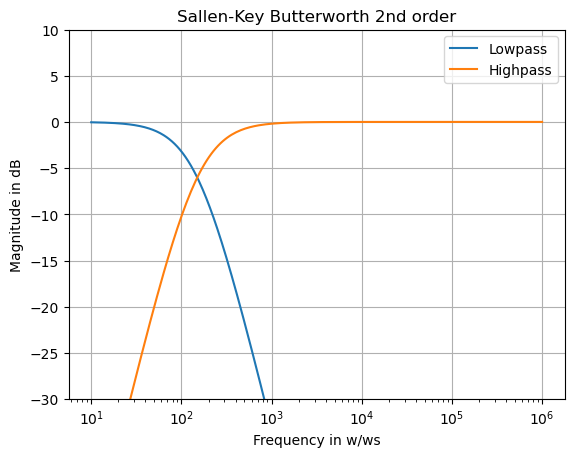
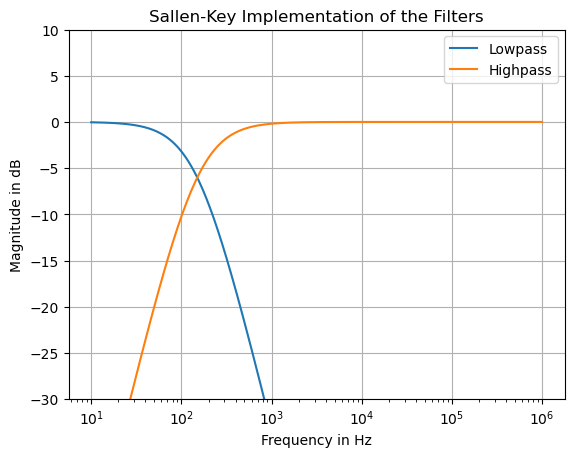
Updatet the Readme. Correct a few mistakes.

Changed region(s): [[0.2666, 0.0, 0.8589, 0.0613], [0.4443, 0.9497, 0.6812, 0.9803]]

diff --git a/004_Real_Circuits/README.md b/004_Real_Circuits/README.md
@@ -24,9 +24,17 @@ Schematic of the basic OTA desgin from Prof. Pretl.
 
 </div>
 
-The schematic in the figure above show the circuit of the basic OTA from Prof. Pretl. This designs is provided in his analog circuit design repository.[Analog-circuit-design Repository](https://github.com/iic-jku/analog-circuit-design)\
-This OTA is a very simple design. Besides the MOSFETs M7 to M13, which are needed for the enable circuit of this OTA design, the core OTA design consist only out of six MOSFETs. This is the bare minmum amount of MOSFETs needed for a functional OTA design.\
-The MOSFET M1 to M6 together form the core OTA circuit. Each MOSFET pair has a particular function in the OTA.
+The schematic in the figure above show the circuit of the basic OTA from Prof. Pretl. This designs is provided in his analog circuit design repository.[Analog-circuit-design Repository](https://github.com/iic-jku/analog-circuit-design). This OTA is a very simple design. Besides the MOSFETs M7 to M13, which are needed for the enable circuit of this OTA design, the core OTA design consist only out of six MOSFETs.
+
+Parameters:
+* $V_\mathrm{dd}=1.45\,\mathrm{V}<1.5\,\mathrm{V}<1.55\,\mathrm{V}$
+* $V_\mathrm{ss}=0\,\mathrm{V}$
+* $V_\mathrm{in,n/in,p}=0.7\,\mathrm{V}<0.8\,\mathrm{V}<0.9\,\mathrm{V}$
+* $I_\mathrm{bias}=20\,\mathrm{\mu A}$
+
+
+
+Functionality of the MOSFETs:
 * The PMOS M3 and M4 form a current Mirror. These two MOSFETs are used as a form of drain resistor for the upcoming differential input pair.
 * The NMOS M1 and M2 form the differential input pair of the OTA. These two MOSFETs form the differential signal, based on the voltage differenz between the input voltages $V_\mathrm{in,n}$ and $V_\mathrm{in,p}$ at the input terminals of the OTA.
 * The two NMOS M6 and M5 create together the bias network for the differential input pair. The bias current is needed to bias the differential input pair M1 and M2 and to create the differential signal. This OTA needs a bias current of $I_\mathrm{bias}=20\,\mathrm{\mu A}$.
@@ -61,12 +69,13 @@ The circuit with the OTA x1 is the Sallen-Key lowpass circuit. The parameters of
 * $C_\mathrm{LP}=22.221\,\mathrm{nF}$
 
 The OTA x2 is used for the Sallen-key highpass circuit. The following values for the resistors and capacitors are used.
-* $R_\mathrm{HP}=50\,\mathrm{k\Omega}$
-* $C_\mathrm{HP}=22.221\,\mathrm{nF}$
+* $R_\mathrm{HP}=22.221\,\mathrm{k\Omega}$
+* $C_\mathrm{HP}=50\,\mathrm{nF}$
 
-For the inverter circuit and the adder circuit, ideal opamps are used. This is due to the fact, that the input signal at the inputs of the OTA has to be between $0.7\,\mathrm{V}$ and $0.9\,\mathrm{V}$. This cant be achieved with the output signals of the filters. This is also the reason for the voltage source $V_\mathrm{off}$ in the highpass circuit. The two capacitors in series to inverted input of the OTA block all DC voltages. Therefore the incoming AC voltage oscillates around ground potential. The voltage source gives an offset of $0.8\,\mathrm{V}$, so that the signal is inside the wanted voltage range. The resistors used in the inverter and adder circuit have a value of $R_\mathrm{IN}=1\,\mathrm{M\Omega}$.
+For the inverter and adder circuit:
+* $R_\mathrm{IN}=1\,\mathrm{M\Omega}$
 
-
+For the inverter and the adder circuit, ideal opamps are used. This is due to the fact, that they don't have any effect on the performance of the lowpass and highpass. Only these two OTAs are relevant. The reason for the voltage source at the inverting input of x2 is, that the input voltage has to be between $0.7\,\mathrm{V}$ and $0.9\,\mathrm{V}$. This is achieved by DC offset of $0.8\,\mathrm{V}$ with the input signal, but the capcitors $C_\mathrm{3}$ and $C_\mathrm{4}$ block all incoming DC voltages. So the voltage source gives the input signal the necessary offset voltage $0.8\,\mathrm{V}$.
 
 
 <div align="center">
@@ -93,8 +102,16 @@ Schematic of the modified OTA. The enable circuit got removed.
 
 </div>
 
-The OTA design in the schematic above is used in the second LRC design. This OTA design is a modified version of the basic OTA design from Prof. Pretl. The enable circuit is removed for the sake of simplicity.\
-Only the MOSFET which are necessary for the OTA to function properly are left in this design. The functionality of the MOSFETs stays the same.
+The OTA design in the schematic above is used in the second LRC design. This OTA design is a modified version of the basic OTA design from Prof. Pretl. The enable circuit is removed for the sake of simplicity.
+
+Parameters:
+* $V_\mathrm{dd}=1.45\,\mathrm{V}<1.5\,\mathrm{V}<1.55\,\mathrm{V}$
+* $V_\mathrm{ss}=0\,\mathrm{V}$
+* $V_\mathrm{in,n/in,p}=0.7\,\mathrm{V}<0.8\,\mathrm{V}<0.9\,\mathrm{V}$
+* $I_\mathrm{bias}=20\,\mathrm{\mu A}$
+
+
+This design contains only the MOSFET which are necessary for the OTA to function properly. The functionality of the MOSFETs stays the same.
 
 * M3/M4 are PMOS, which create the upper current mirror.
 * M1/M2 are NMOS and create the differential input pair.
@@ -128,11 +145,13 @@ The circuit used for the LRC is the same as before. The OTA x1 is used for the S
 * $C_\mathrm{LP}=22.221\,\mathrm{nF}$
 
 The OTA x2 is used for the Sallen-key highpass circuit. The following values for the resistors and capacitors are used.
-* $R_\mathrm{HP}=50\,\mathrm{k\Omega}$
-* $C_\mathrm{HP}=22.221\,\mathrm{nF}$
+* $R_\mathrm{HP}=22.221\,\mathrm{k\Omega}$
+* $C_\mathrm{HP}=50\,\mathrm{nF}$
 
-Also the inverter circuit and the addition circuit stay the same. The values of the resistors used in this circuit stays at $R_\mathrm{IN}=1\,\mathrm{M\Omega}$.\
-The only difference to the circuit before is, that there is no more enable pin at the OTA symbol. This pin is missing, because there is no more enable circuit inside the OTA.
+For the inverter and adder circuit:
+* $R_\mathrm{IN}=1\,\mathrm{M\Omega}$
+
+Also the inverter circuit and the addition circuit stay the same. Only difference is the removed enable pin for the OTAs.
 
 <div align="center">
 
@@ -141,7 +160,7 @@ The only difference to the circuit before is, that there is no more enable pin a
 Schematic of the Linkwitz-Riley crossover circuit which uses the modified OTA design. 
 
 </div>
-The magnitude response of this LRC is basicly the same as before. This is due to the same core design of OTAs. No improvments are achieved by the new design of the OTA.
+The magnitude response of this LRC is basicly the same as before. This is due to the same core design of OTAs. No improvments are achieved with the new design of the OTA.
 
 ## Linkwitz-Riley crossover with an added amplifier at its output
 This Version of the linkwitz-riley-crossover is based on the final OTA design.
@@ -153,15 +172,27 @@ This Version of the linkwitz-riley-crossover is based on the final OTA design.
 Schematic of the OTA with a second common source amplifier at the output of the differenital input pair.
 
 </div>
-The figure above shows the final design of the OTA. The desgn is similiar to the OTA design with the enable circuit removed. The core design of the OTA stays the same.
+
+Parameters:
+* $V_\mathrm{dd}=1.45\,\mathrm{V}<1.5\,\mathrm{V}<1.55\,\mathrm{V}$
+* $V_\mathrm{ss}=0\,\mathrm{V}$
+* $V_\mathrm{in,n/in,p}=0.7\,\mathrm{V}<0.8\,\mathrm{V}<0.9\,\mathrm{V}$
+* $I_\mathrm{bias}=30\,\mathrm{\mu A}$
+
+
+The figure above shows the final design of the OTA. The desgn is similiar to the OTA design with the enable circuit removed. The core design of the OTA stays the same. New to the design are the MOSFETs M7 and M8 and the resistor $R_\mathrm{1}$ and the capacitor $C_\mathrm{2}$.
 
 * M3/M4 are PMOS, which create the upper current mirror.
 * M1/M2 are NMOS and create the differential input pair.
 * M5/M6 are NMOS and create the bias network for the differential input pair.
+* M7 is a PMOS and is used to amplify the signal coming from the differential input pair.
+* M8 is a NMOS and used to bias the PMOS M7
+* The resistor $R_\mathrm{1}$ and the capacitor $C_\mathrm{2}$ are used for the Miller compensation.
 
-New in comparison to the old design are the MOSFETs M7 and M8 and furthermore the resistor R1 and the capacitor C2.\
-The MOSFETs together create the second output stage. The PMOS M7 is the amplifier and the NMOS M8 is used to bias the amplifier. The amplifier stage needs only half of the bias current as needed for the differential pair. This due to fact, that only one, instead of two, common source amplifier is used in the second stage. That is also the reason for the fact, that only $I_\mathrm{bias,output}=\frac{I_\mathrm{bias,diff}}{2}=10\,\mathrm{\mu A}$ is needed to bias the output amplifier stage. The overall bias current needed for this OTA design therefore increase to $I_\mathrm{bias}=30\,\mathrm{\mu A}$.\
+
+The second amplifier needs only half of the bias current as needed for the differential pair. This due to fact that only one, instead of two, common source amplifier is used in the second stage. Therefore only $I_\mathrm{bias}=10\,\mathrm{\mu A}$ is needed for the second amplifier.\
 The reistor $R_\mathrm{1}$ and the capacitor $C_\mathrm{2}$ are there to stabilze the OTA. Because of the multiple stage amplifier design, multiple poles are present. These poles cause ripples in the magnitude response of the OTA and significantly the phase margin of the OTA. In order to improve the magnitude response and the phase margin of the OTA, a feedback capacitor can be added between the output of the differential input pair and the outpur of the second amplifier. This is knwon as miller compensation. The feedback capacitor will create a dominant pole in the lower frequency domain and will push the other poles into the higher frequency domain, out of the operation are of this OTA. This method is called pole splitting and is one of the more common methods, in order to stabilize the OTA. These method has two major side effects:
+
 * It reduces the bandwith and therefore also the gain-bandwidth-producht (GBW)
 * The feedback capacitor introduces a zero, which provides gain instead of attenuation.
  
@@ -198,8 +229,8 @@ Schematic of Linkwitz-Riley crossover circuit which uses the OTA design with an 
 * $C_\mathrm{LP}=22.221\,\mathrm{nF}$
 
 The OTA x2 is used as a Sallen-key highpass. The following values for the resistors and capacitors are used.
-* $R_\mathrm{HP}=50\,\mathrm{k\Omega}$
-* $C_\mathrm{HP}=22.221\,\mathrm{nF}$
+* $R_\mathrm{HP}=22.221\,\mathrm{k\Omega}$
+* $C_\mathrm{HP}=50\,\mathrm{nF}$
 
 The resistors values used in for the inverter circuit and the adder circuit stays at 
 $R_\mathrm{IN}=1\,\mathrm{M\Omega}$.
@@ -211,6 +242,11 @@ $R_\mathrm{IN}=1\,\mathrm{M\Omega}$.
 
 Magnitude response of the Linkwitz-Riley crossover. 
 </div>
+
+This version of the Linkwitz-Riley crossover finaly has the desired results. The crossover is constant at $0\,\mathrm{dB}$ and the magnitude response of the lowpass and the highpass cross each other by $150\,\mathrm{Hz}$ and at $-6\,\mathrm{dB}$. Also both filters reach the desired $40\,\mathrm{dB}$ attenuation per decade in the transistionband.\
+After $10\,\mathrm{kHz}$ the crossover begins to dip. This might be due to the ripple in the stopband of the lowpass filter. At present, the cause of the ripples remains unknown.
+
+
 ## Analysis of OTA
 
 The designed OTA is analysed in frequency domain, time domain as well as an loopgain analysis. These three analysis are repeated with a temperature sweep.
@@ -220,10 +256,7 @@ The designed OTA is analysed in frequency domain, time domain as well as an loop
 In the table below are the results of the AC analysis testbench for each OTA design used in this repository. With the AC analysis, the frequency behaviour of the OTAs can be tested.
 
 
-| Analysis  | Basic OTA| No enable | Second output stage|
-|-------|-----|-------|-------|
-| DC Gain| 0.977 | 0.977 | 1|
-| Bandwidth | $20.78\,\mathrm{MHz}$ | $20.81\,\mathrm{MHz}$ | $12.52\,\mathrm{MHz}$ |
+
 
 <div align="center">
 
@@ -233,6 +266,17 @@ Plot of the AC Analysis of all OTA variants.
 </div>
 
 
+<div align="center">
+
+| Analysis  | Basic OTA| No enable | Second output stage|
+|-------|-----|-------|-------|
+| DC Gain| 0.977 | 0.977 | 1|
+| Bandwidth | $20.78\,\mathrm{MHz}$ | $20.81\,\mathrm{MHz}$ | $12.52\,\mathrm{MHz}$ |
+
+</div>
+
+The frequency behaviour of the basic OTA and the OTA without the enable circuit is same. This is due to the fact, that the core design of both OTAs is the same. Both OTAs have a bandwith of $BW\approx 20.8\,\mathrm{MHz}$ and a DC gain of $G\approx1$, which is to expected, because in the testbench they are in unity gain configuration.\
+The OTA design with a second output stage has a reduced bandwith of $BW=12.52\,\mathrm{MHz}$, because of the Miller compensation between the outputs of the individuell stages. The DC gain is here also $G=1$.
 ### Loop Gain Analysis
 
 

diff --git a/002_Behavioural_Model/README.md b/002_Behavioural_Model/README.md
@@ -7,34 +7,34 @@ This folder contains a mathematical reprensentation, also behavioral model, of t
 Parameters for the second order LRC: 
 * $f_\mathrm{0}=150\,\mathrm{Hz}$
 * $Q_\mathrm{0}=\frac{1}{2}$
-* Second order butterworth filters implemented via Sallen-Key topology
+* Sallen-Key lowpass and highpass (Second order filters)
 
 
 
 
 ## Linkwitz-riley crossover
 
-The behavioral model of the second order LRC is based on its transfer function. A second order LRC consists of a second order low- and highpass butterworth in parallel, which are both implemented via the Sallen-key topology. This means, that the LRC actually consists out of two seperat transferfunctions, which are combined in the end.
-The second order butterworth lowpass in the LRC can be described with the following transferfunction.
+The behavioral model of the second order LRC is based on its transfer function. A second order LRC consists of a second order low- and highpass in parallel, which are both implemented via the Sallen-key topology. This means, that the LRC actually consists out of two seperat transferfunctions, which are combined in the end.
+The second order lowpass in the LRC can be described with the following transferfunction.
 
 $$
 H(s)= \frac{\omega_\mathrm{0}^2}{s^2 + \frac{\omega_\mathrm{0}^2}{Q_\mathrm{0}} s + \omega_\mathrm{0}^2}
 $$
 
-And the second order butterworth Highpass as following.
+And the second order Highpass as following.
 
 $$
 H(s) = \frac{s^2}{s^2 + \frac{\omega_\mathrm{0}^2}{Q_\mathrm{0}} s + \omega_\mathrm{0}^2}
 $$
 
-Because both filters are Butterworth filters a smooth transitionband can be expected. Because of the Sallen-key topology, both filters are second order Butterworth filters. The second order should result in $40\,\mathrm{dB}$ attenuation per decade for both filters.
+Because both filters are Butterworth like filters a smooth transitionband can be expected. Because of the Sallen-key topology, both filters are second order filters. The second order should result in $40\,\mathrm{dB}$ attenuation per decade for both filters.
 
 
 <div align="center">
 
 ![xxx](./pictures/Butterworth_Sallen_key_implementation.png)
 
-The Magnitude response of both second order Butterworth filters. 
+The Magnitude response of both second order filters. 
 
 </div>
 
